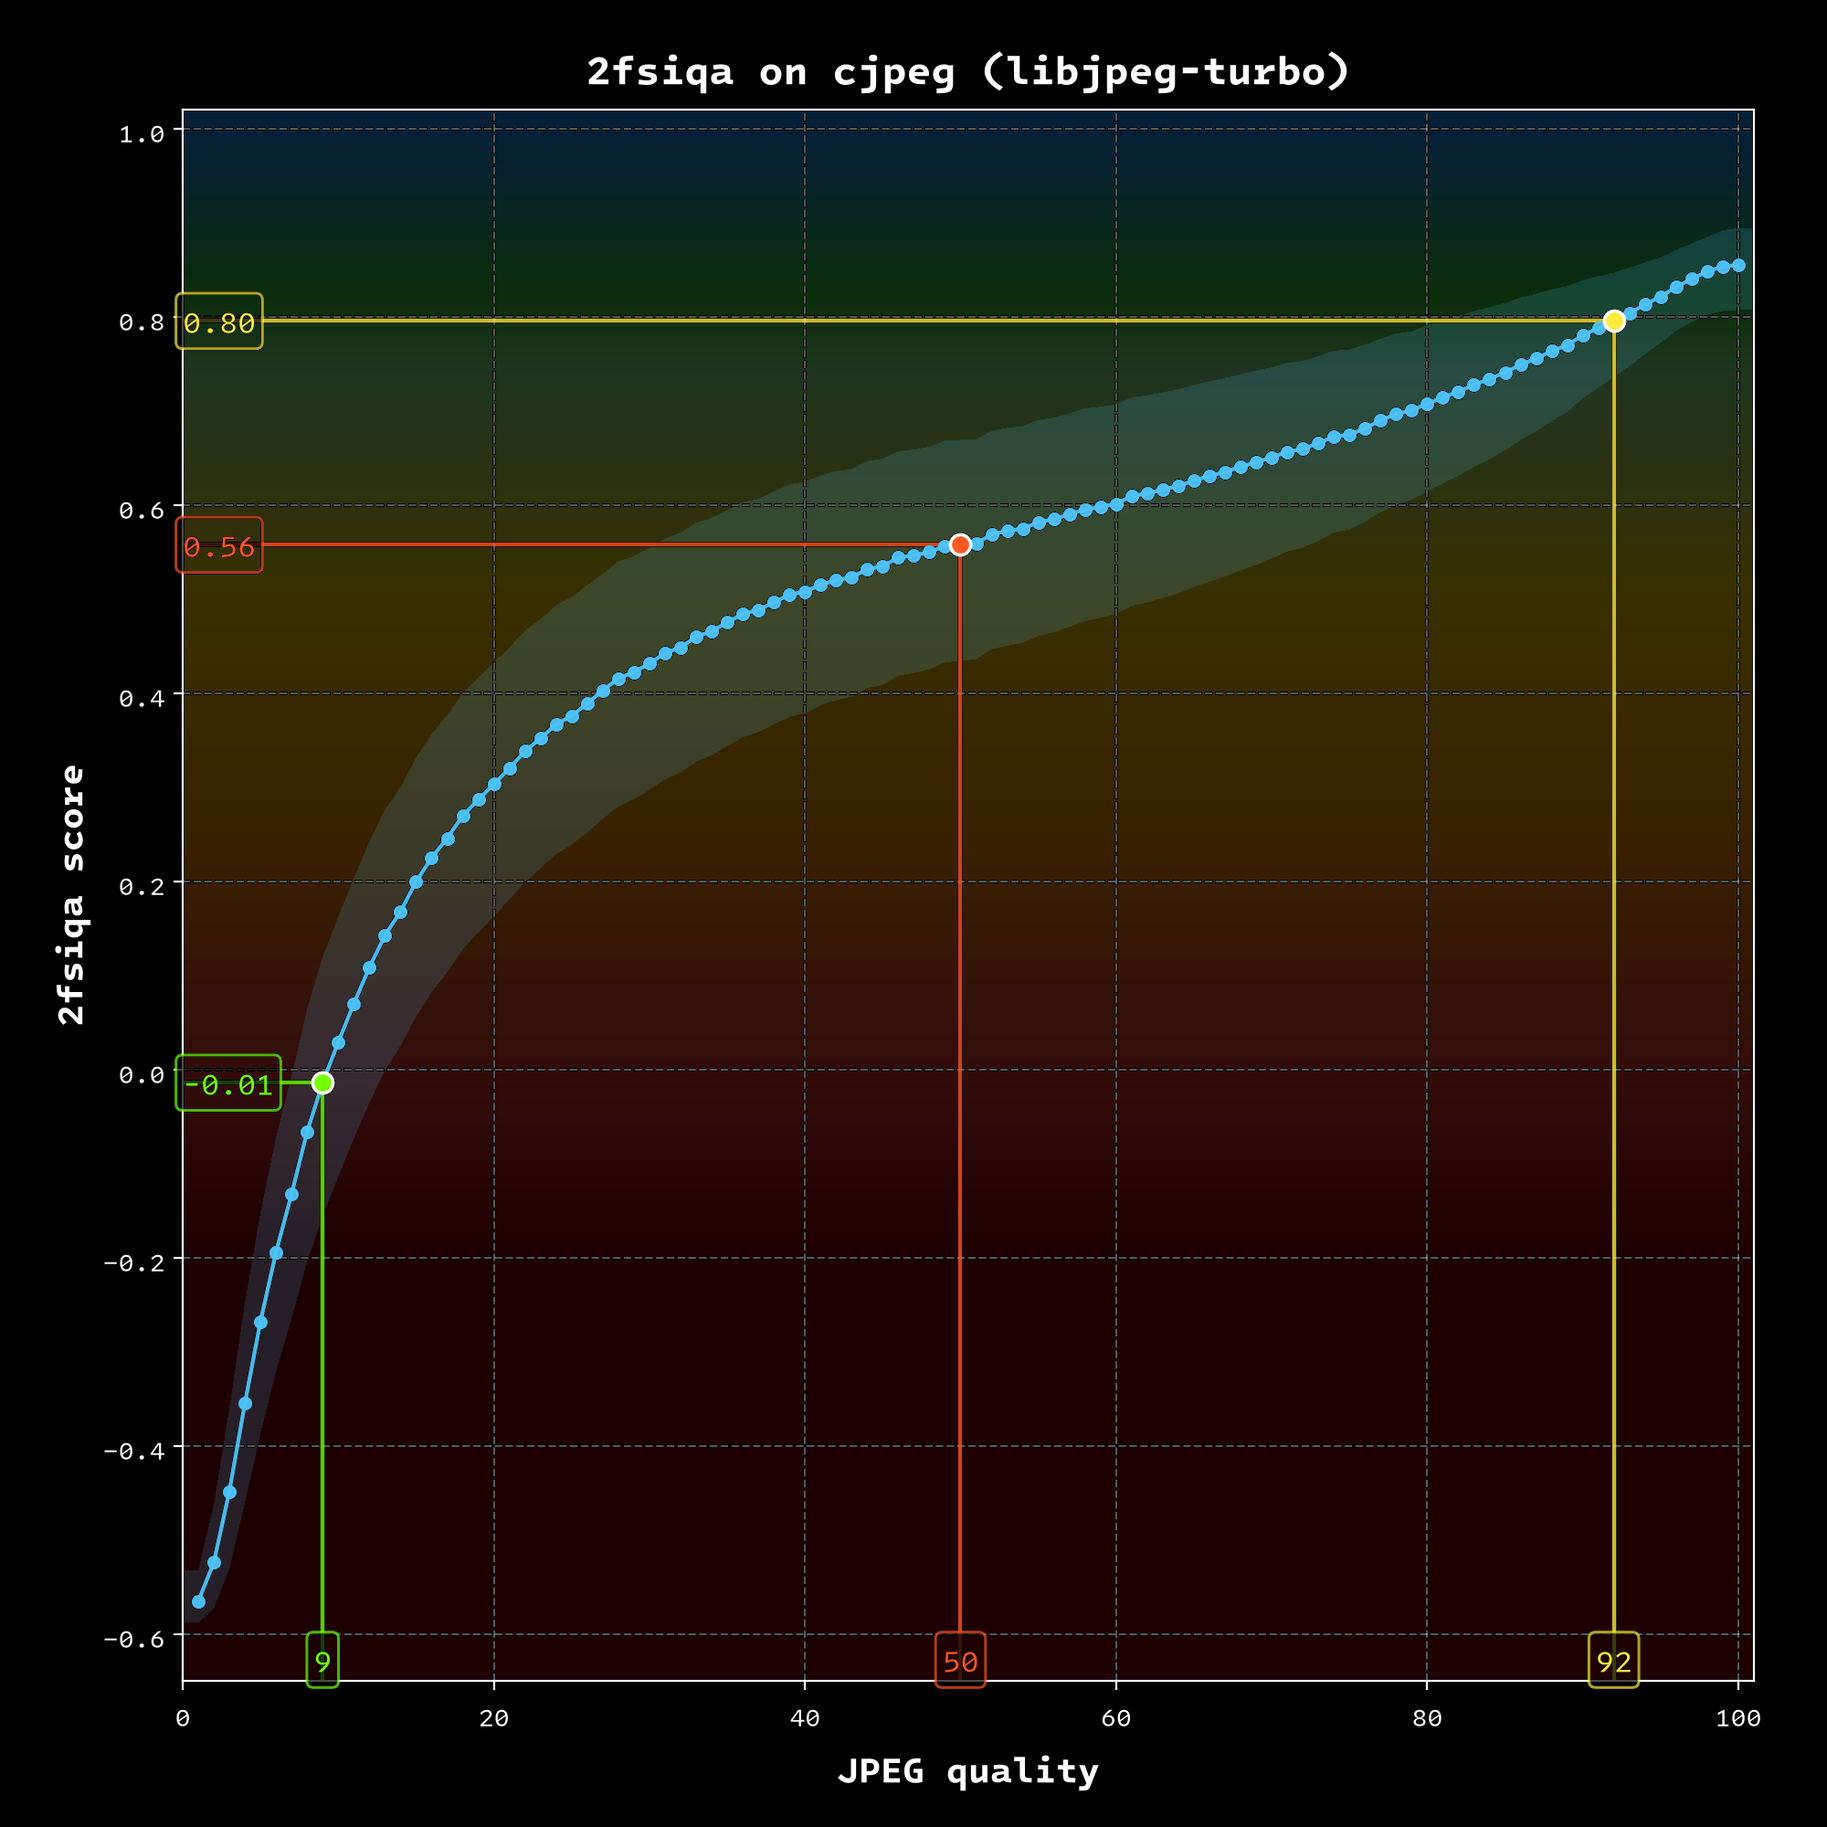
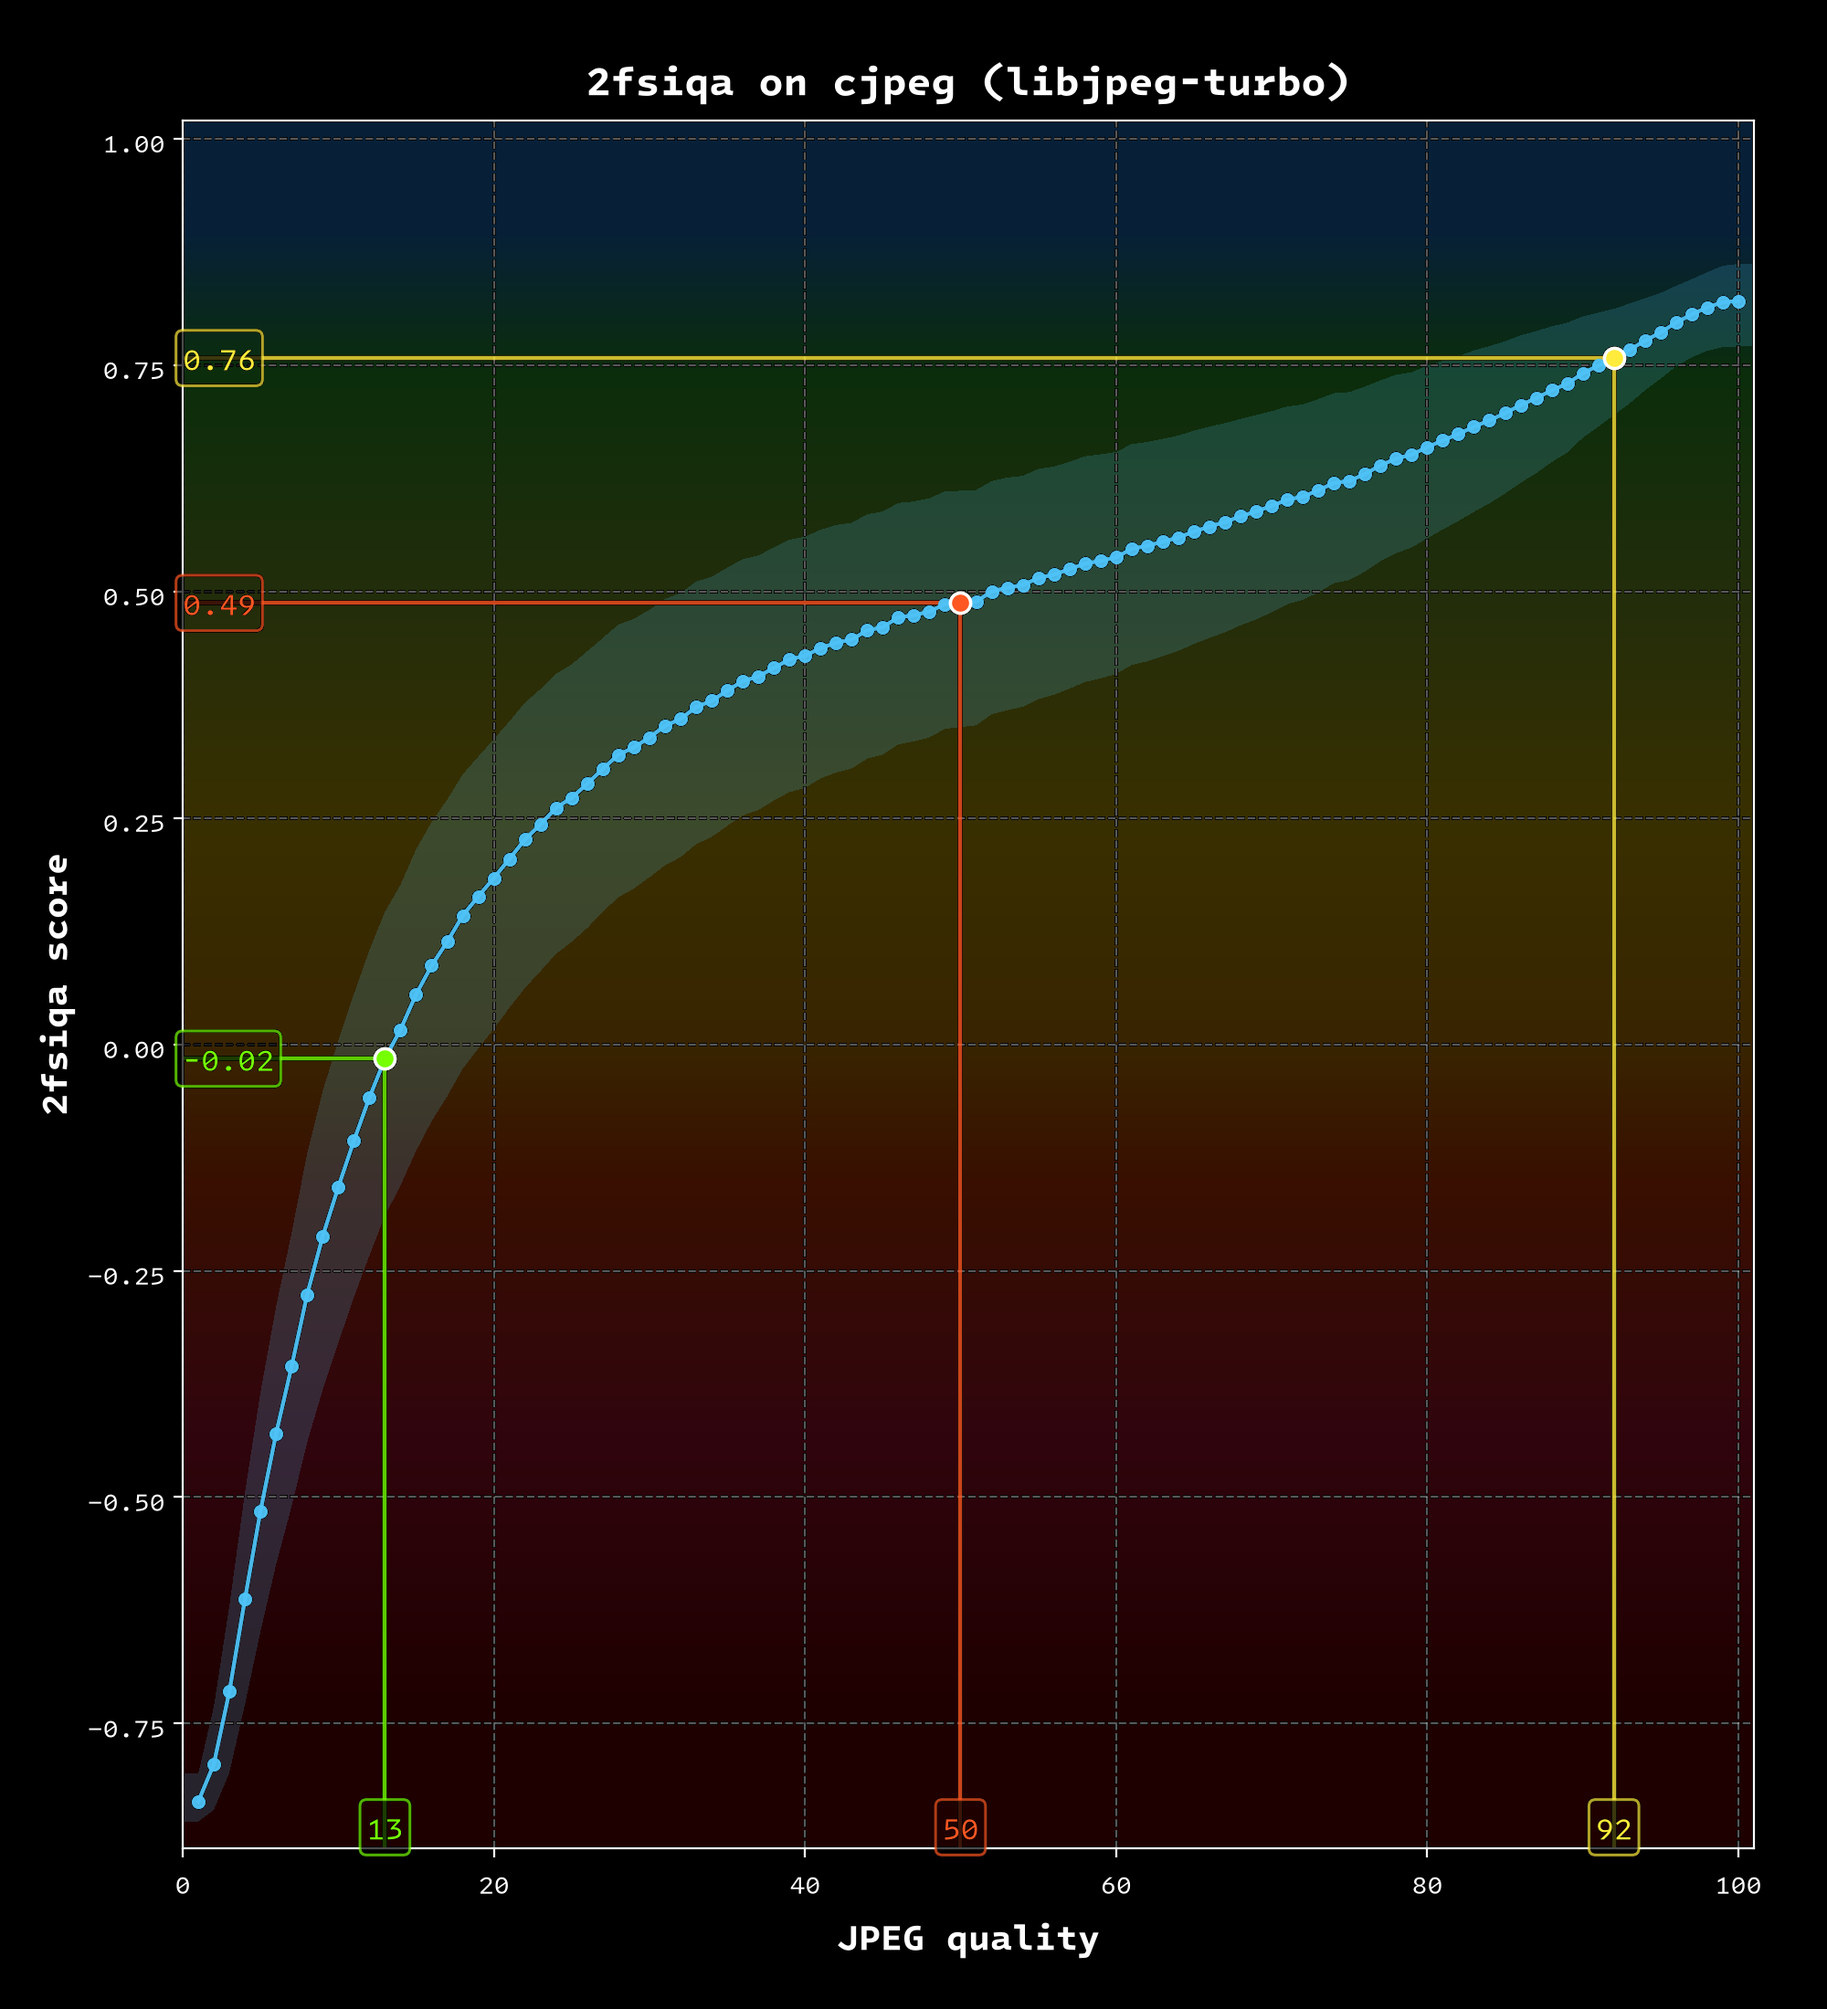
V1.0

diff --git a/2fsiqa/toofsiqa.h b/2fsiqa/toofsiqa.h
@@ -12,57 +12,37 @@ struct ToofsiqaInputs {
     std::optional<double> butteraugli;
     std::optional<double> vmaf;
     bool psnr_all_infinite = false;
-    int reported_bit_depth = 0;
 };
 
 struct ToofsiqaConstants {
-    double gamma_psnr = 9.36171837885394353;
-    double gamma_ssim = 1.18192682654902703;
-    double gamma_dssim = 0.62340643859208122;
-    double gamma_ssimulacra2 = 3.13359136645195857;
-    double gamma_butteraugli = 5.07657791664660607;
-    double gamma_vmaf = 0.1834947685744179;
+    double gamma_psnr = 11.5516255123160736;
+    double gamma_ssim = 2.50804960469373883;
+    double gamma_dssim = 0.30425822850646822;
+    double gamma_ssimulacra2 = 4.50336182359004678;
+    double gamma_butteraugli = 4.16911964975726335;
+    double gamma_vmaf = 0.11474717339130573;
 
-    double ssim_peak = 0.99998977677354295;
-    double dssim_peak = 0.0004725741092786;
-    double ssimulacra2_peak = 96.12100924227171106;
-    double butteraugli_peak = 0.00097344081834298;
-    double vmaf_peak = 97.05573772108768082;
+    double psnr_peak = 105.67429235572350876;
+    double ssim_peak = 0.99411856119380337;
+    double dssim_peak = 0.00054186963634625;
+    double ssimulacra2_peak = 99.99634029098663746;
+    double butteraugli_peak = 0.00000196303671376;
+    double vmaf_peak = 97.4269502677698398;
 
-    double psnr_zero = 27.94916313800175089;
-    double ssim_zero = 0.75590529490661496;
-    double dssim_zero = 0.03348857182409740;
-    double ssimulacra2_zero = 0.0;
-    double butteraugli_zero = 6.51104090026518456;
-    double vmaf_zero = 55.08180736540971623;
+    double psnr_zero = 27.94776035194346875;
+    double ssim_zero = 0.43759992597380704;
+    double dssim_zero = 0.01312436630032327;
+    double ssimulacra2_zero = 0.010536871675854538;
+    double butteraugli_zero = 5.37465129822075749;
+    double vmaf_zero = 63.27964704498809567;
 
-    double weight_psnr = 0.03765;
-    double weight_ssim = 0.1685;
-    double weight_dssim = 0.2315;
-    double weight_ssimulacra2 = 0.1985;
-    double weight_butteraugli = 0.1315;
-    double weight_vmaf = 0.23235;
+    double weight_psnr = 0.0353;
+    double weight_ssim = 0.2221;
+    double weight_dssim = 0.1816;
+    double weight_ssimulacra2 = 0.2102;
+    double weight_butteraugli = 0.1376;
+    double weight_vmaf = 0.2132;
 };
-
-inline constexpr int kPsnrMinBitDepth = 4;
-
-inline double psnr_toofsiqa_peak(int reported_bit_depth) {
-    if (reported_bit_depth <= 4) return 33.99026746406606492;
-    if (reported_bit_depth == 5) return 40.32093696889131706;
-    if (reported_bit_depth == 6) return 46.30522133742691437;
-    if (reported_bit_depth == 7) return 51.87900995976647778;
-    if (reported_bit_depth == 8) return 59.29273437200676966;
-    if (reported_bit_depth == 9) return 64.74288369915451824;
-    if (reported_bit_depth == 10) return 70.76565379276246404;
-    if (reported_bit_depth == 11) return 76.78918145445553023;
-    if (reported_bit_depth == 12) return 82.80607136437981808;
-    if (reported_bit_depth == 13) return 88.76607550208761666;
-    return 98.49715991730304267;
-}
-
-inline bool include_psnr_in_toofsiqa(int reported_bit_depth) {
-    return reported_bit_depth >= kPsnrMinBitDepth;
-}
 
 std::optional<double> compute_toofsiqa(const ToofsiqaInputs& inputs,
                                        const ToofsiqaConstants& constants = ToofsiqaConstants{});

diff --git a/2fsiqa/core.cpp b/2fsiqa/core.cpp
@@ -36,6 +36,8 @@
 #include <unistd.h>
 #endif
 
+static constexpr const char* ver = "1.0 [2026.09.30]";
+
 static constexpr uint32_t kCoreMinSide = 8;
 static constexpr uint32_t kVmafMinSide = 64;
 
@@ -148,10 +150,8 @@ static std::unique_ptr<double[]> allocate_source_double(const ImageInfo& info) {
 }
 
 static PairMetrics compute_psnr_ssim(const WorkingImage& working_a, const WorkingImage& working_b,
-                                     bool want_psnr, bool want_ssim,
-                                     int reported_bit_depth) {
+                                     bool want_psnr, bool want_ssim) {
     PairMetrics metrics;
-    metrics.reported_bit_depth = reported_bit_depth;
     if (!want_psnr && !want_ssim) {
         return metrics;
     }
@@ -184,7 +184,7 @@ static PairMetrics compute_psnr_ssim(const WorkingImage& working_a, const Workin
                 working_a.total_samples, working_a.channels);
 
             const double peak2 = working_a.peak * working_a.peak;
-            const double fallback = psnr_inf_fallback_peak(reported_bit_depth);
+            const double fallback = ToofsiqaConstants{}.psnr_peak;
 
             double channel_psnr[3];
             bool channel_inf[3];
@@ -243,7 +243,6 @@ static PairMetrics compute_psnr_ssim(const WorkingImage& working_a, const Workin
 
 ToofsiqaInputs metrics_to_toofsiqa_inputs(const PairMetrics& metrics) {
     ToofsiqaInputs inputs;
-    inputs.reported_bit_depth = metrics.reported_bit_depth;
     inputs.psnr_all_infinite = metrics.psnr_all_infinite;
     if (metrics.has_psnr && !metrics.psnr_all_infinite) {
         inputs.psnr = metrics.psnr;
@@ -640,11 +639,9 @@ static PairMetrics compare_decoded(OwnedDecodedImage image_a,
     }
 
     PairMetrics metrics;
-    metrics.reported_bit_depth = image_a.info.reported_bit_depth;
     if (want_g22) {
         metrics = compute_psnr_ssim(working_g22_a.view, working_g22_b.view,
-                                    selection.psnr, selection.ssim,
-                                    image_a.info.reported_bit_depth);
+                                    selection.psnr, selection.ssim);
         working_g22_a.storage.reset();
         working_g22_b.storage.reset();
         working_g22_a.view.data = nullptr;
@@ -685,10 +682,11 @@ static PairMetrics compare_decoded(OwnedDecodedImage image_a,
 static void print_usage(const char* program) {
     std::cerr
         << "  2fsiqa - Composite Image Quality Assessment Metric\n"
+        << "  Version: " << ver << "\n"
         << "\n"
         << "  This tool can help you estimate the perceptual difference between pairs of images\n"
 		<< "\n"
-		<< "  2fsiqa score range is ~-0.6 - 1.0, where:\n"
+		<< "  2fsiqa score range is ~-0.9 - 1.0, where:\n"
 		<< "\n"
 		<< "  1.0  — pair is identical\n"
 		<< "  Score > 0.0 - similar, with some differences (closer to 1.0 means more similar)\n"

diff --git a/2fsiqa/input/pnm_decoder.h b/2fsiqa/input/pnm_decoder.h
@@ -81,17 +81,6 @@ inline float read_ascii_float(Cursor& c) {
     return value;
 }
 
-inline int bits_for_maxval(uint32_t maxval) {
-    if (maxval <= 1u) return 1;
-    int bits = 0;
-    uint32_t v = maxval;
-    while (v > 0u) {
-        ++bits;
-        v >>= 1;
-    }
-    return bits;
-}
-
 inline int storage_depth_for_maxval(uint32_t maxval) {
     if (maxval <= 255u) return 8;
     if (maxval <= 65535u) return 16;
@@ -430,7 +419,6 @@ inline ImageInfo decode_pnm(const uint8_t* file_bytes, size_t file_byte_count,
     if (header.is_float) {
         info.sample_type = SampleType::Float32;
         info.bit_depth = 32;
-        info.reported_bit_depth = header.is_half ? 10 : 23;
         const size_t spp =
             static_cast<size_t>(info.channels) + (info.has_alpha ? 1u : 0u);
         info.row_bytes = static_cast<size_t>(info.width) * spp * sizeof(float);
@@ -444,8 +432,6 @@ inline ImageInfo decode_pnm(const uint8_t* file_bytes, size_t file_byte_count,
     const int out_depth = pnm_detail::storage_depth_for_maxval(header.maxval);
     info.sample_type = SampleType::Integer;
     info.bit_depth = out_depth;
-    info.reported_bit_depth = pnm_detail::bits_for_maxval(header.maxval);
-    if (info.reported_bit_depth < 1) info.reported_bit_depth = 1;
 
     const size_t spp =
         static_cast<size_t>(info.channels) + (info.has_alpha ? 1u : 0u);

diff --git a/2fsiqa/psnr.cpp b/2fsiqa/psnr.cpp
@@ -142,19 +142,3 @@ std::array<double, 3> compute_mse_channels(const float* reference, const float* 
     return result;
 }
 
-double psnr_inf_fallback_peak(int reported_bit_depth) {
-    if (reported_bit_depth <= 1) return 20.52743879660661719;
-    if (reported_bit_depth == 2) return 24.36265906048794250;
-    if (reported_bit_depth == 3) return 32.71917969101289003;
-    if (reported_bit_depth == 4) return 39.38691762192354417;
-    if (reported_bit_depth == 5) return 45.33571334135487518;
-    if (reported_bit_depth == 6) return 51.89406430624571698;
-    if (reported_bit_depth == 7) return 57.47154941911067283;
-    if (reported_bit_depth == 8) return 64.17501352899263622;
-    if (reported_bit_depth == 9) return 70.14780319047090984;
-    if (reported_bit_depth == 10) return 76.13639401939916240;
-    if (reported_bit_depth == 11) return 82.14104159915294190;
-    if (reported_bit_depth == 12) return 88.15141572085119037;
-    if (reported_bit_depth == 13) return 94.11150058205750213;
-    return 144.737197309002645795;
-}

diff --git a/2fsiqa/input/tiff_decoder.h b/2fsiqa/input/tiff_decoder.h
@@ -278,16 +278,12 @@ inline ImageInfo decode_tiff(const uint8_t* file_bytes, size_t file_byte_count,
         image.height = height;
         if (is_half_float) {
             image.bit_depth = 32;
-            image.reported_bit_depth = 10;
         } else if (sample_format == SAMPLEFORMAT_IEEEFP && bits_per_sample == 32) {
             image.bit_depth = 32;
-            image.reported_bit_depth = 23;
         } else if (sample_format == SAMPLEFORMAT_IEEEFP && bits_per_sample == 64) {
             image.bit_depth = 64;
-            image.reported_bit_depth = 52;
         } else {
             image.bit_depth = static_cast<int>(bits_per_sample);
-            image.reported_bit_depth = image.bit_depth;
         }
         image.channels = color_channels;
         image.has_alpha = has_alpha;

diff --git a/2fsiqa/toofsiqa.cpp b/2fsiqa/toofsiqa.cpp
@@ -52,11 +52,8 @@ std::optional<double> compute_toofsiqa(const ToofsiqaInputs& inputs,
         quality_score += norm * weight;
     };
 
-    if (inputs.psnr.has_value() && include_psnr_in_toofsiqa(inputs.reported_bit_depth)) {
-        accumulate(inputs.psnr, psnr_toofsiqa_peak(inputs.reported_bit_depth),
-                   constants.psnr_zero, constants.weight_psnr,
-                   constants.gamma_psnr, false);
-    }
+    accumulate(inputs.psnr, constants.psnr_peak, constants.psnr_zero,
+               constants.weight_psnr, constants.gamma_psnr, false);
 
     accumulate(inputs.ssim, constants.ssim_peak, constants.ssim_zero,
                constants.weight_ssim, constants.gamma_ssim, false);

diff --git a/2fsiqa/input/png_decoder.h b/2fsiqa/input/png_decoder.h
@@ -76,7 +76,6 @@ inline ImageInfo decode_png(const uint8_t* file_bytes, size_t file_byte_count,
     image.width     = png_get_image_width(png, png_info);
     image.height    = png_get_image_height(png, png_info);
     image.bit_depth = png_get_bit_depth(png, png_info);
-    image.reported_bit_depth = image.bit_depth;
     const int color_type = png_get_color_type(png, png_info);
 
     if (image.width == 0 || image.height == 0) {

diff --git a/2fsiqa/input/avif_decoder.h b/2fsiqa/input/avif_decoder.h
@@ -106,7 +106,6 @@ inline ImageInfo decode_avif(const uint8_t* file_bytes, size_t file_byte_count,
     info.width = image->width;
     info.height = image->height;
     info.bit_depth = static_cast<int>(out_depth);
-    info.reported_bit_depth = static_cast<int>(file_depth);
     info.sample_type = SampleType::Integer;
     info.has_alpha = has_alpha;
     info.channels = is_gray ? 1 : 3;

diff --git a/2fsiqa/input/webp_decoder.h b/2fsiqa/input/webp_decoder.h
@@ -86,7 +86,6 @@ inline ImageInfo decode_webp(const uint8_t* file_bytes, size_t file_byte_count,
     image.width = static_cast<uint32_t>(width);
     image.height = static_cast<uint32_t>(height);
     image.bit_depth = 8;
-    image.reported_bit_depth = 8;
     image.channels = 3;
     image.has_alpha = has_alpha;
     image.sample_type = SampleType::Integer;

diff --git a/2fsiqa/input/jpeg_decoder.h b/2fsiqa/input/jpeg_decoder.h
@@ -179,7 +179,6 @@ inline ImageInfo decode_jpeg(const uint8_t* file_bytes, size_t file_byte_count,
     image.width = cinfo.output_width;
     image.height = cinfo.output_height;
     image.bit_depth = output_precision;
-    image.reported_bit_depth = file_precision;
     image.sample_type = SampleType::Integer;
     image.has_alpha = false;
 

diff --git a/2fsiqa/psnr.h b/2fsiqa/psnr.h
@@ -8,5 +8,3 @@ double compute_mse(const float* reference, const float* distorted, size_t total_
 
 std::array<double, 3> compute_mse_channels(const float* reference, const float* distorted,
                                            size_t total_samples, int channels);
-
-double psnr_inf_fallback_peak(int reported_bit_depth);

diff --git a/2fsiqa/input/bmp_decoder.h b/2fsiqa/input/bmp_decoder.h
@@ -554,7 +554,6 @@ inline ImageInfo decode_bmp(const uint8_t* file_bytes, size_t file_byte_count,
     info.width = static_cast<uint32_t>(header.width);
     info.height = header.height;
     info.bit_depth = 8;
-    info.reported_bit_depth = 8;
     info.sample_type = SampleType::Integer;
     info.channels = 3;
 
